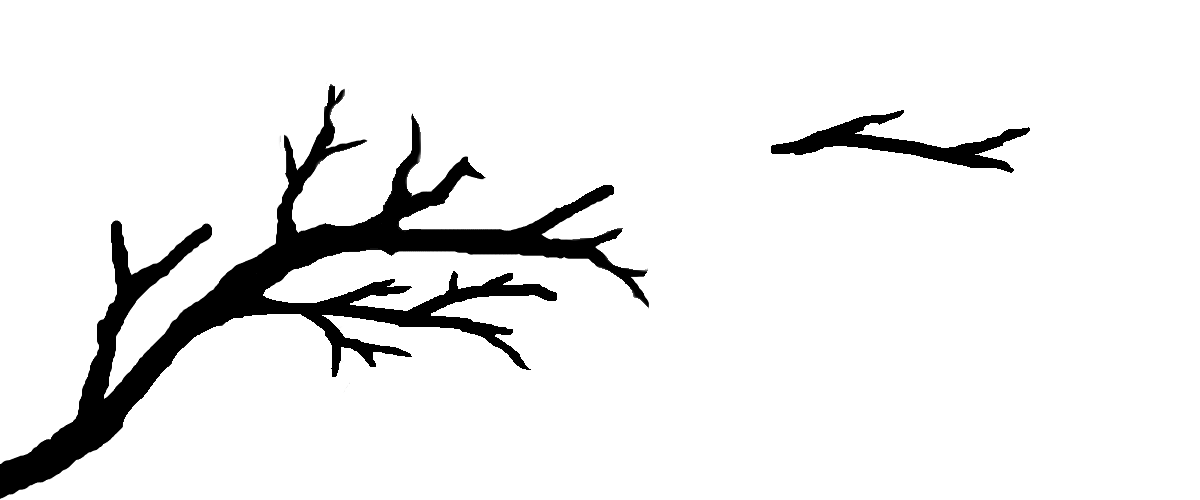
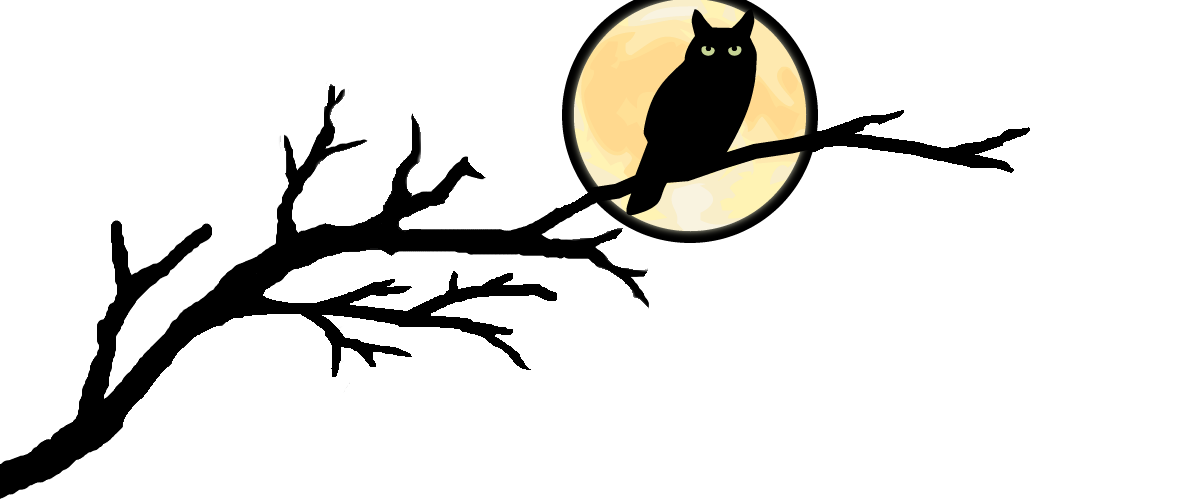
[fix] item alignement

Changed region(s): [[0.4625, 0.0, 0.7092, 0.51]]

diff --git a/src/beauty.css b/src/beauty.css
@@ -53,24 +53,36 @@ a:active {
 }
 
 .tree {
-  margin-top: 4.7%;
+  pointer-events: none;
+  margin-top: 8%;
   margin-left: -3%;
   position: absolute;
   z-index: -1;
 }
 
 .present {
-	margin-top: 0%;
-	font-size: 17px;
+    position: absolute;
+	  margin-top: 3%;
+    margin-left: 46%;
+	  font-size: 17px;
     font-family: "Arial";
     font-weight: bold;
     text-align: center;
 }
 
+.owlArea {
+    animation: toggle 4s linear infinite;
+    position : absolute;
+    top: -125px;
+    left: 630px;
+    border: 0px solid white;
+}
+
 .redirect_link_1 {
+    z-index: 100;
+    left: 335px;
+    top: 357px;
     position: absolute;
-    margin-left: 23%;
-    margin-top: 7%;
     background-color: #000000;
     padding: 10px 8px;
     border-radius: 25px;
@@ -82,9 +94,10 @@ a:active {
 }
 
 .redirect_link_2 {
+    z-index: 100;
+    left: 500px;
+    top: 280px;
     position: absolute;
-    margin-left: 35%;
-    margin-top: 1%;
     background-color: #000000;
     padding: 10px 8px;
     border-radius: 25px;
@@ -96,9 +109,10 @@ a:active {
 }
 
 .redirect_link_3 {
+    z-index: 100;
+    left: 975px;
+    top: 135px;
     position: absolute;
-    margin-left: 73%;
-    margin-top: -10%;
     background-color: #000000;
     padding: 10px 8px;
     border-radius: 25px;
@@ -150,18 +164,6 @@ a:active {
     to {
         opacity:0;
     }
-}
-
-.owlArea {
-    padding-left: 0;
-    padding-right: 0;
-    margin-left: auto;
-    margin-right: auto;
-    animation: toggle 4s linear infinite;
-    top: 10px;
-    width: 120px;
-    height: 50px;
-    border: 0px solid white;
 }
 
 .canvas0 {

diff --git a/index.html b/index.html
@@ -8,9 +8,6 @@
 		<link rel="stylesheet" href="./src/beauty.css">
 	</head>
 	<body>
-		<div class="owlArea">
-			<canvas id="owl" width="180" height="400">
-		</div>
 		<script type="text/javascript">
 		function my_draw_square(square, x, y, color) {
 			square.beginPath();
@@ -28,17 +25,19 @@
 			my_draw_square(blinker, 75, 170, "black");
 		}
 		</script>
-		<div class="tree">
-			<img src="./assets/tree.png">
-		</div>
 		<div class="present">
 			<h1 style="color: #ffdd99;">Fosowl</h1>
-			<img src="./assets/owl.png">
 		</div>
-		<a class="redirect_link_1" href="https://github.com/Fosowl">github</a>
-		<a class="redirect_link_2" href="https://www.linkedin.com/in/martin-legrand-309885185/">Linkedin</a>
-		<a class="redirect_link_3" href="./src/about.html">About</a>
-		<hr style="margin-top: 22%"></hr>
+		<div class="tree">
+			<img src="./assets/tree.png">
+			<div class="owlArea">
+				<canvas id="owl" width="300" height="300">
+			</div>
+			<a class="redirect_link_1" href="https://github.com/Fosowl">github</a>
+			<a class="redirect_link_2" href="https://www.linkedin.com/in/martin-legrand-309885185/">Linkedin</a>
+			<a class="redirect_link_3" href="./src/about.html">About</a>
+		</div>
+		<hr style="margin-top: 50%"></hr>
 		<div class="skills">
 			<h3>Skills :</h3>
 		</div>

diff --git a/src/about.html b/src/about.html
@@ -4,7 +4,7 @@
 	<head>
 		<meta charset="UTF-8">
 		<meta name="viewport" content="width=device-width, initial-scale=1.0">
-		<title>Welcome on Martin website</title>
+		<title>About</title>
 		<link rel="stylesheet" href="../src/beauty.css">
 	</head>
 	<body>
